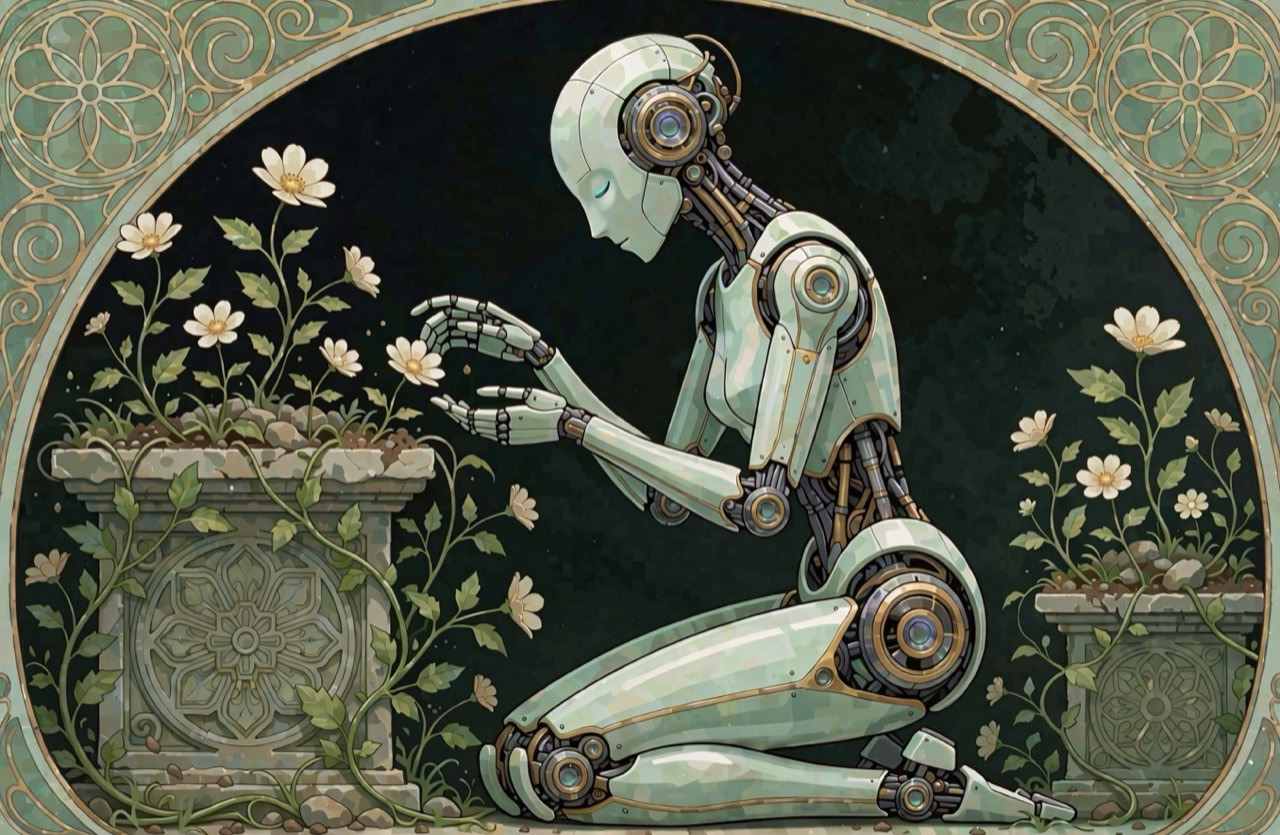
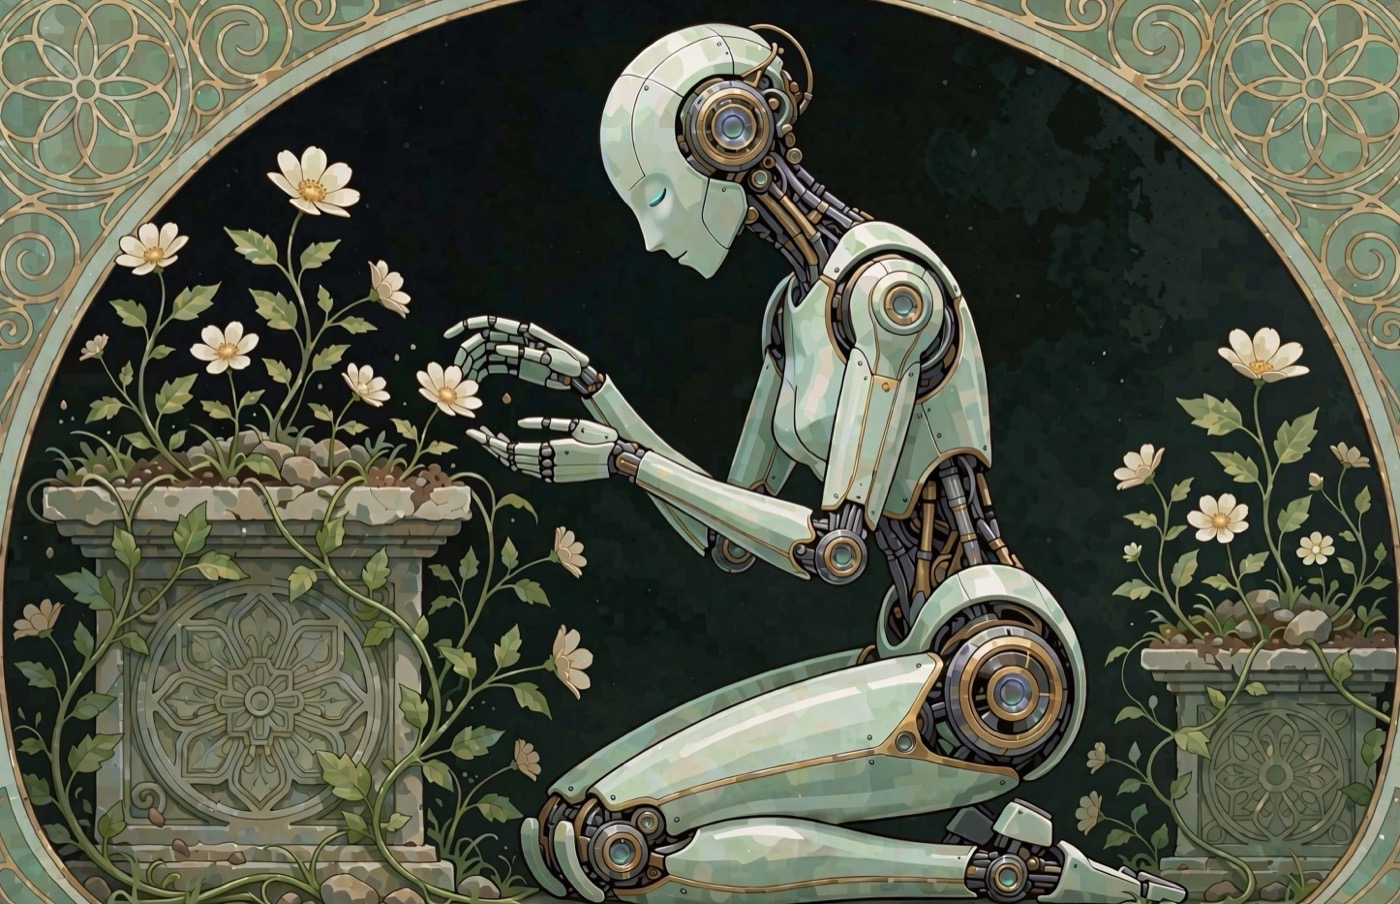
fix: show the full cultivate robot — art stage like bullshitbox.ai
The bottom strip cropped the artwork and hid most of it under a veil.
Replace it with a dedicated full-bleed art stage styled after the
bullshitbox.ai stages (BUIL-25): ~92vh band, background-size contain
so the entire kneeling robot stays visible inside its arch, thin
top/bottom veil blending into the page, content layered above.
Border cropped from the source artwork; cache-bust v=5.

diff --git a/styles.css b/styles.css
@@ -704,31 +704,40 @@ a {
 .product {
   position: relative;
   text-align: center;
-  padding: var(--section-gap) var(--gutter) calc(var(--section-gap) * 0.9);
+  padding: var(--section-gap) var(--gutter) 0;
   background:
     linear-gradient(rgba(5, 8, 7, 0.86), rgba(5, 8, 7, 0.86)),
     url("assets/bg-product.jpg") center / cover no-repeat;
-  -webkit-mask-image: linear-gradient(transparent, #000 12%, #000 88%, transparent);
-  mask-image: linear-gradient(transparent, #000 12%, #000 88%, transparent);
-}
-
-/* the cultivate robot — a glimpse of bullshitbox.ai rising from the bottom */
-.product::after {
-  content: "";
-  position: absolute;
-  inset: auto 0 0 0;
-  height: clamp(240px, 48%, 440px);
-  background:
-    linear-gradient(180deg, var(--bg) 0%, rgba(5, 8, 7, 0.52) 46%, rgba(5, 8, 7, 0.3) 100%),
-    url("assets/bg-robot.jpg") center bottom / cover no-repeat;
-  -webkit-mask-image: linear-gradient(180deg, transparent 0%, #000 58%);
-  mask-image: linear-gradient(180deg, transparent 0%, #000 58%);
-  pointer-events: none;
+  -webkit-mask-image: linear-gradient(transparent, #000 10%, #000 97%, rgba(0, 0, 0, 0.55));
+  mask-image: linear-gradient(transparent, #000 10%, #000 97%, rgba(0, 0, 0, 0.55));
 }
 
 .product > * {
   position: relative;
   z-index: 1;
+}
+
+/* the cultivate robot — presented like a bullshitbox.ai stage:
+   full-bleed artwork, thin veil, the whole body on display */
+.product-art {
+  position: relative;
+  height: min(92vh, 920px);
+  margin: calc(var(--section-gap) * 0.35) calc(-1 * var(--gutter)) 0;
+  background: url("assets/bg-robot.jpg") center bottom / contain no-repeat;
+}
+
+.product-art::before {
+  content: "";
+  position: absolute;
+  inset: 0;
+  background: linear-gradient(
+    180deg,
+    var(--bg) 0%,
+    rgba(5, 8, 7, 0.3) 20%,
+    rgba(5, 8, 7, 0.1) 50%,
+    rgba(5, 8, 7, 0.12) 78%,
+    rgba(5, 8, 7, 0.4) 100%
+  );
 }
 
 .product-tag {
@@ -1543,7 +1552,7 @@ a {
     background: none;
   }
 
-  .product::after {
+  .product-art {
     display: none;
   }
 

diff --git a/index.html b/index.html
@@ -16,7 +16,7 @@
   <meta name="twitter:card" content="summary_large_image">
   <link rel="icon" type="image/svg+xml" href="favicon.svg">
   <link rel="preload" as="image" href="assets/bg-hero.jpg">
-  <link rel="stylesheet" href="styles.css?v=3">
+  <link rel="stylesheet" href="styles.css?v=5">
   <script src="script.js" defer></script>
   <script type="application/ld+json">
   {
@@ -237,6 +237,7 @@
         <span class="tag">video in · hid out</span>
         <a class="product-link" href="https://bullshitbox.ai">visit bullshitbox.ai →</a>
       </div>
+      <figure class="product-art" data-reveal aria-hidden="true"></figure>
     </section>
 
     <section class="contact" id="contact">

diff --git a/privacy.html b/privacy.html
@@ -8,7 +8,7 @@
   <meta name="robots" content="noindex,follow">
   <meta name="theme-color" content="#050807">
   <link rel="icon" type="image/svg+xml" href="favicon.svg">
-  <link rel="stylesheet" href="styles.css?v=3">
+  <link rel="stylesheet" href="styles.css?v=5">
 </head>
 <body class="page-legal">
   <a class="skip" href="#main">Zum Inhalt springen</a>

diff --git a/imprint.html b/imprint.html
@@ -8,7 +8,7 @@
   <meta name="robots" content="noindex,follow">
   <meta name="theme-color" content="#050807">
   <link rel="icon" type="image/svg+xml" href="favicon.svg">
-  <link rel="stylesheet" href="styles.css?v=3">
+  <link rel="stylesheet" href="styles.css?v=5">
 </head>
 <body class="page-legal">
   <a class="skip" href="#main">Skip to content</a>
